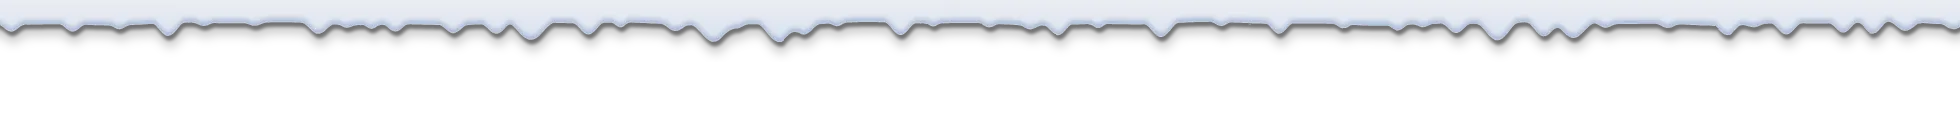
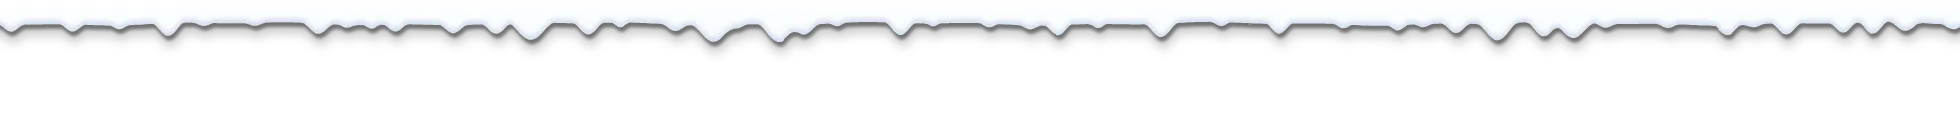
כפתורי שלג: השלג לבן זהה בכל הכפתורים (בלי הכהיה בכהה, גוון תחתון בהיר יותר)
Claude-Session: https://claude.ai/code/session_01GKhrCULAwKxdjAB6ckVtBP

Changed region(s): [[0.0, 0.0857, 1.0, 0.2857]]

diff --git a/sw.js b/sw.js
@@ -10,10 +10,10 @@ const HASHES = {
   "./index.html": "60b115f840e39f84c497504e60da9ca2",
   "./styles.css": "1f022779ccc73cbbdafb37c699c9b5d4",
   "./snow.css": "00ac9579a9810c736b34e592202fd4a1",
-  "./snow-cap-r.webp": "4ffac43c6feeac7156ac2be2e299ef8c",
-  "./snow-cap-r-dark.webp": "98258855bc9277f6c24820f2da3f011a",
-  "./snow-cap-p.webp": "413fef0d383b6388fc09a198e4bcb1f6",
-  "./snow-cap-p-dark.webp": "5aaf35f0979b6b90de318568b10dacc7",
+  "./snow-cap-r.webp": "4921393240a5d8eff2d59045090fd8b9",
+  "./snow-cap-r-dark.webp": "2bebfed968ba0bdf4f01675ab9327831",
+  "./snow-cap-p.webp": "cab7f1380e22be04cae66060fe1b23b4",
+  "./snow-cap-p-dark.webp": "c5add9f07449ffa40879e5d5ef732bf8",
   "./snow-tex.webp": "0a48a44115051d6f275ce49bfb8f8231",
   "./snow-spk.webp": "0abe15c8c806028eb318aea7ced27294",
   "./app.js": "806b20a55ed89de05311b2265245f9cb",

diff --git a/tools/snowbtn-gen.py b/tools/snowbtn-gen.py
@@ -25,7 +25,7 @@ FILT = '''<filter id="f" x="-10%" y="-30%" width="120%" height="160%" color-inte
 <feFlood flood-color="#fff" result="W"/><feComposite in="W" in2="S" operator="out" result="O"/>
 <feOffset in="O" dy="-2.6" result="O1"/><feGaussianBlur in="O1" stdDeviation="1.5" result="O2"/>
 <feComposite in="O2" in2="S" operator="in" result="sh0"/>
-<feColorMatrix in="sh0" type="matrix" values="0 0 0 0 .58 0 0 0 0 .67 0 0 0 0 .82 0 0 0 .6 0" result="sh"/>
+<feColorMatrix in="sh0" type="matrix" values="0 0 0 0 .62 0 0 0 0 .72 0 0 0 0 .86 0 0 0 .42 0" result="sh"/>
 <feOffset in="O" dy="-.7" result="B1"/><feGaussianBlur in="B1" stdDeviation=".35" result="B2"/>
 <feComposite in="B2" in2="S" operator="in" result="b0"/>
 <feColorMatrix in="b0" type="matrix" values="0 0 0 0 .86 0 0 0 0 .91 0 0 0 0 .98 0 0 0 .6 0" result="bl"/>
@@ -41,11 +41,12 @@ FILT = '''<filter id="f" x="-10%" y="-30%" width="120%" height="160%" color-inte
 
 def grad(y1, y2):
     return (f'<linearGradient id="w" gradientUnits="userSpaceOnUse" x1="0" y1="{y1}" x2="0" y2="{y2}"><stop offset="0" stop-color="#FFFFFF"/>'
-            '<stop offset=".35" stop-color="#F7FAFE"/><stop offset="1" stop-color="#EAF1FB"/></linearGradient>')
+            '<stop offset=".35" stop-color="#FBFDFF"/><stop offset="1" stop-color="#F4F8FD"/></linearGradient>')
 
 def drop(dark, d1, b1, d2, b2):
     c1, c2 = ('rgba(0,0,0,.45)', 'rgba(0,0,0,.2)') if dark else ('rgba(60,90,140,.30)', 'rgba(60,90,140,.14)')
-    bright = '<feComponentTransfer in="SourceGraphic" result="src"><feFuncR type="linear" slope=".92"/><feFuncG type="linear" slope=".93"/><feFuncB type="linear" slope=".95"/></feComponentTransfer>' if dark else '<feOffset in="SourceGraphic" result="src"/>'
+    # השלג לבן זהה בבהיר ובכהה (בקשת המשתמש: "לבן בכולם, לא חלק אפורים") — בכהה משתנה רק צבע הצל
+    bright = '<feOffset in="SourceGraphic" result="src"/>'
     return (f'<filter id="ds" x="-5%" y="-5%" width="110%" height="140%" color-interpolation-filters="sRGB">{bright}'
             f'<feDropShadow in="src" dx="{d1 * .3:.2f}" dy="{d1}" stdDeviation="{b1}" flood-color="{c1}" result="a"/>'
             f'<feDropShadow in="a" dx="{d2 * .15:.2f}" dy="{d2}" stdDeviation="{b2}" flood-color="{c2}"/></filter>')
